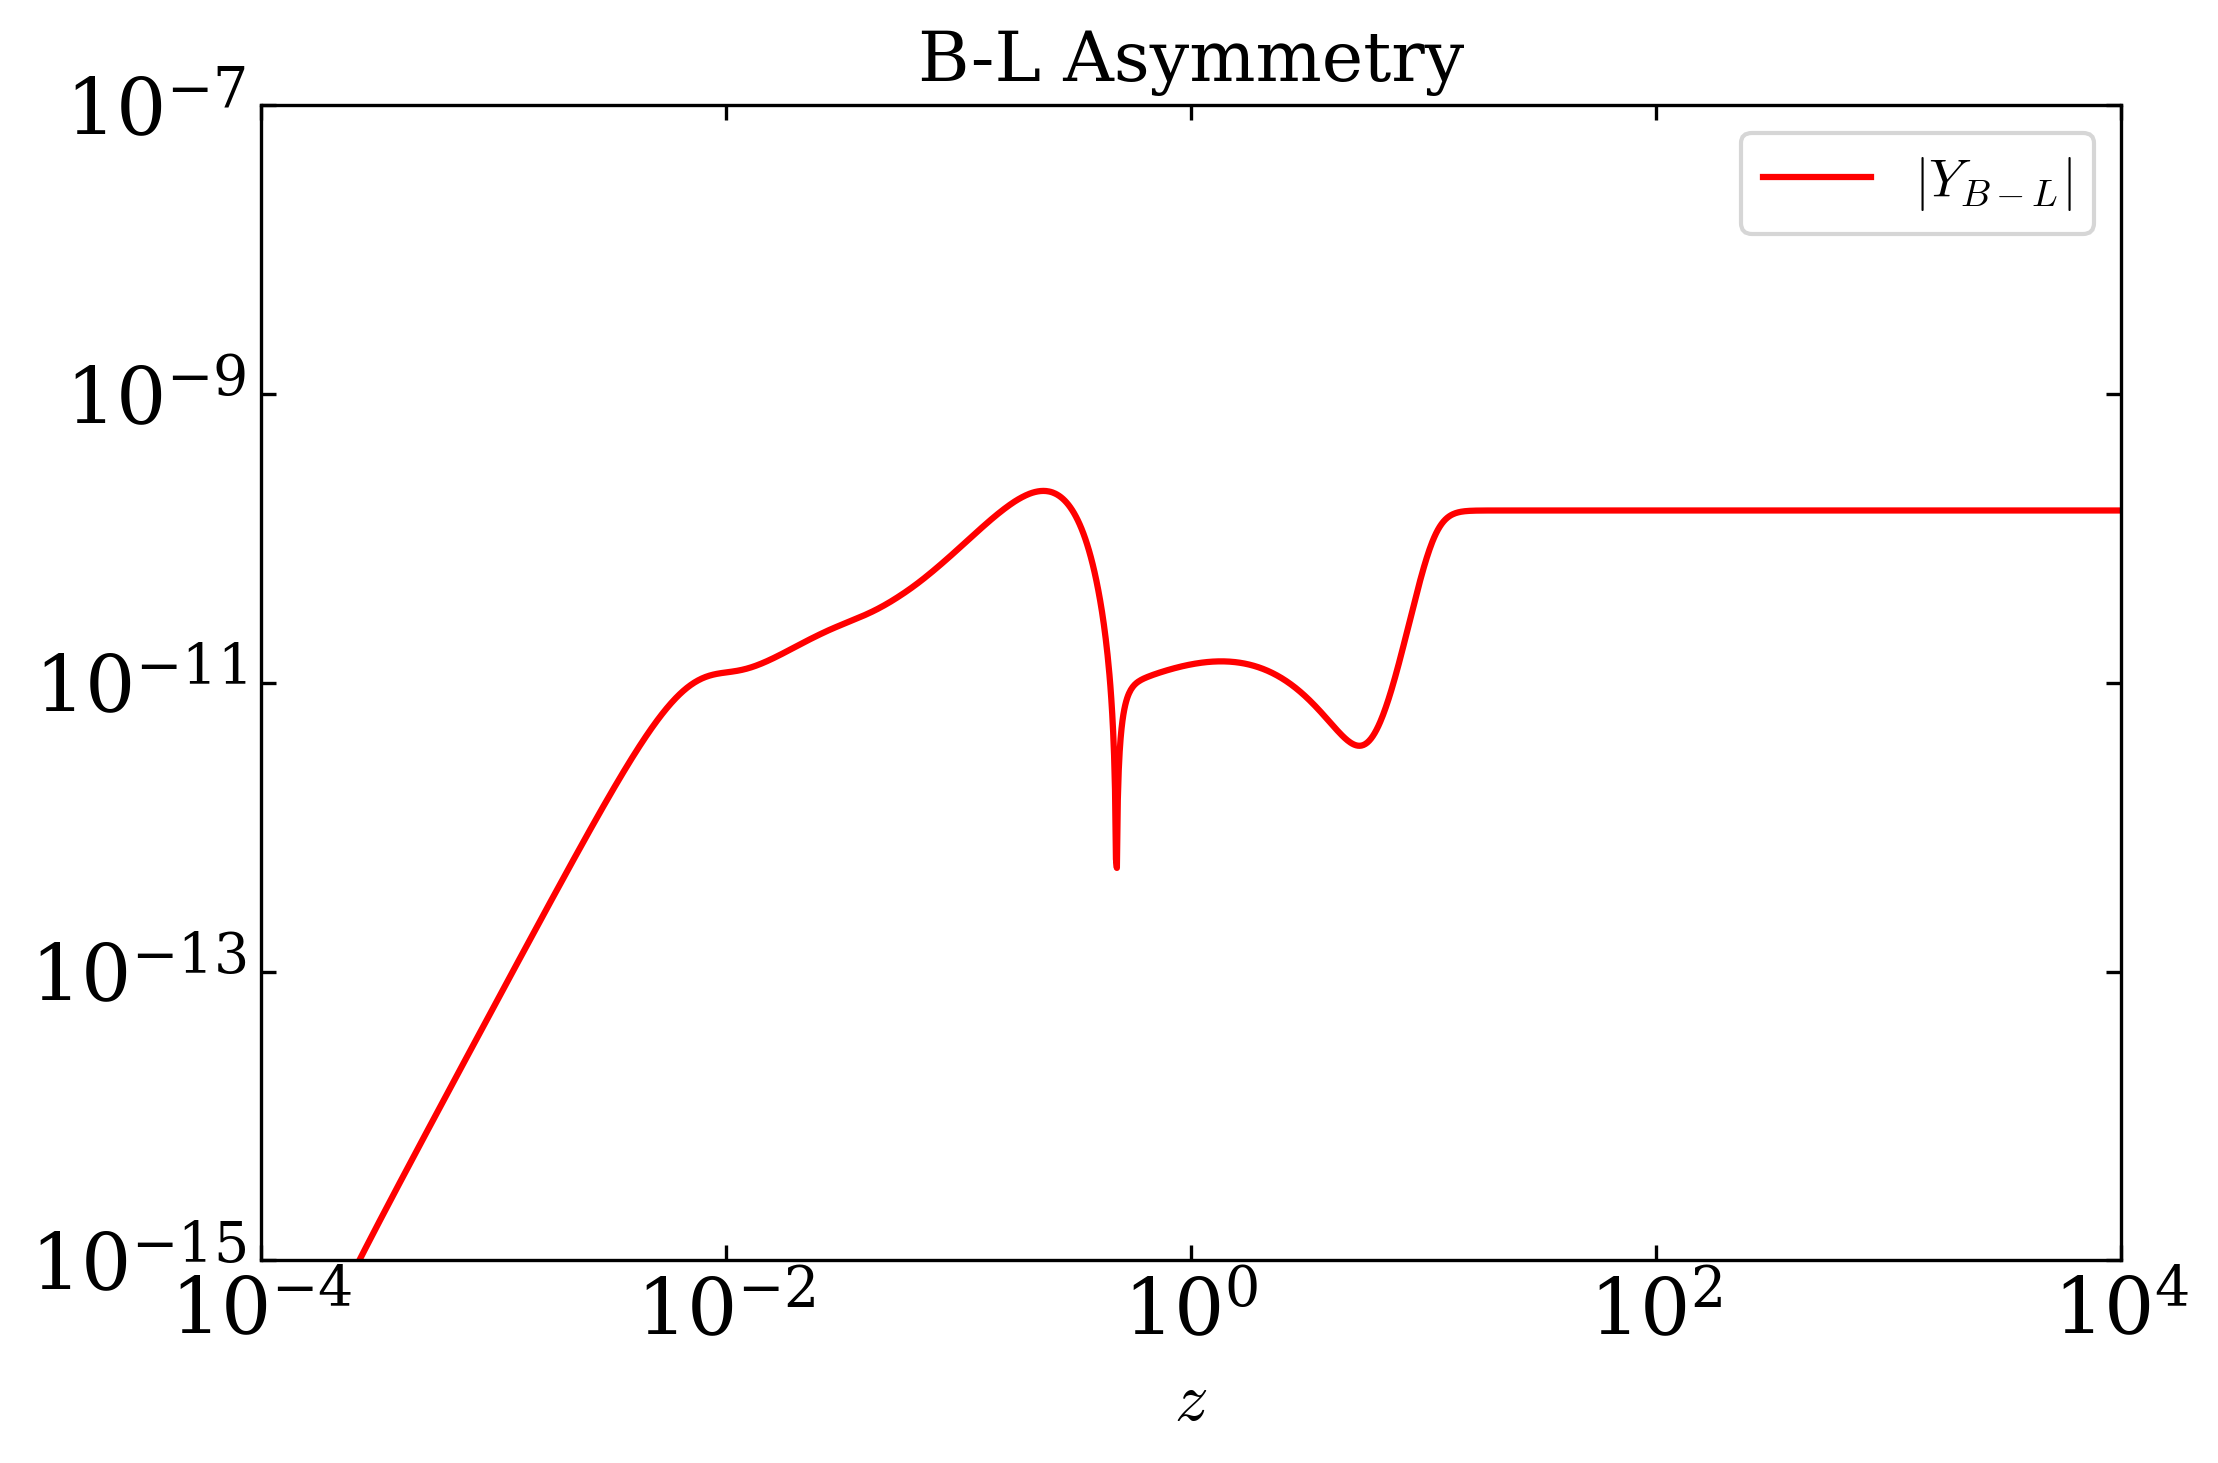
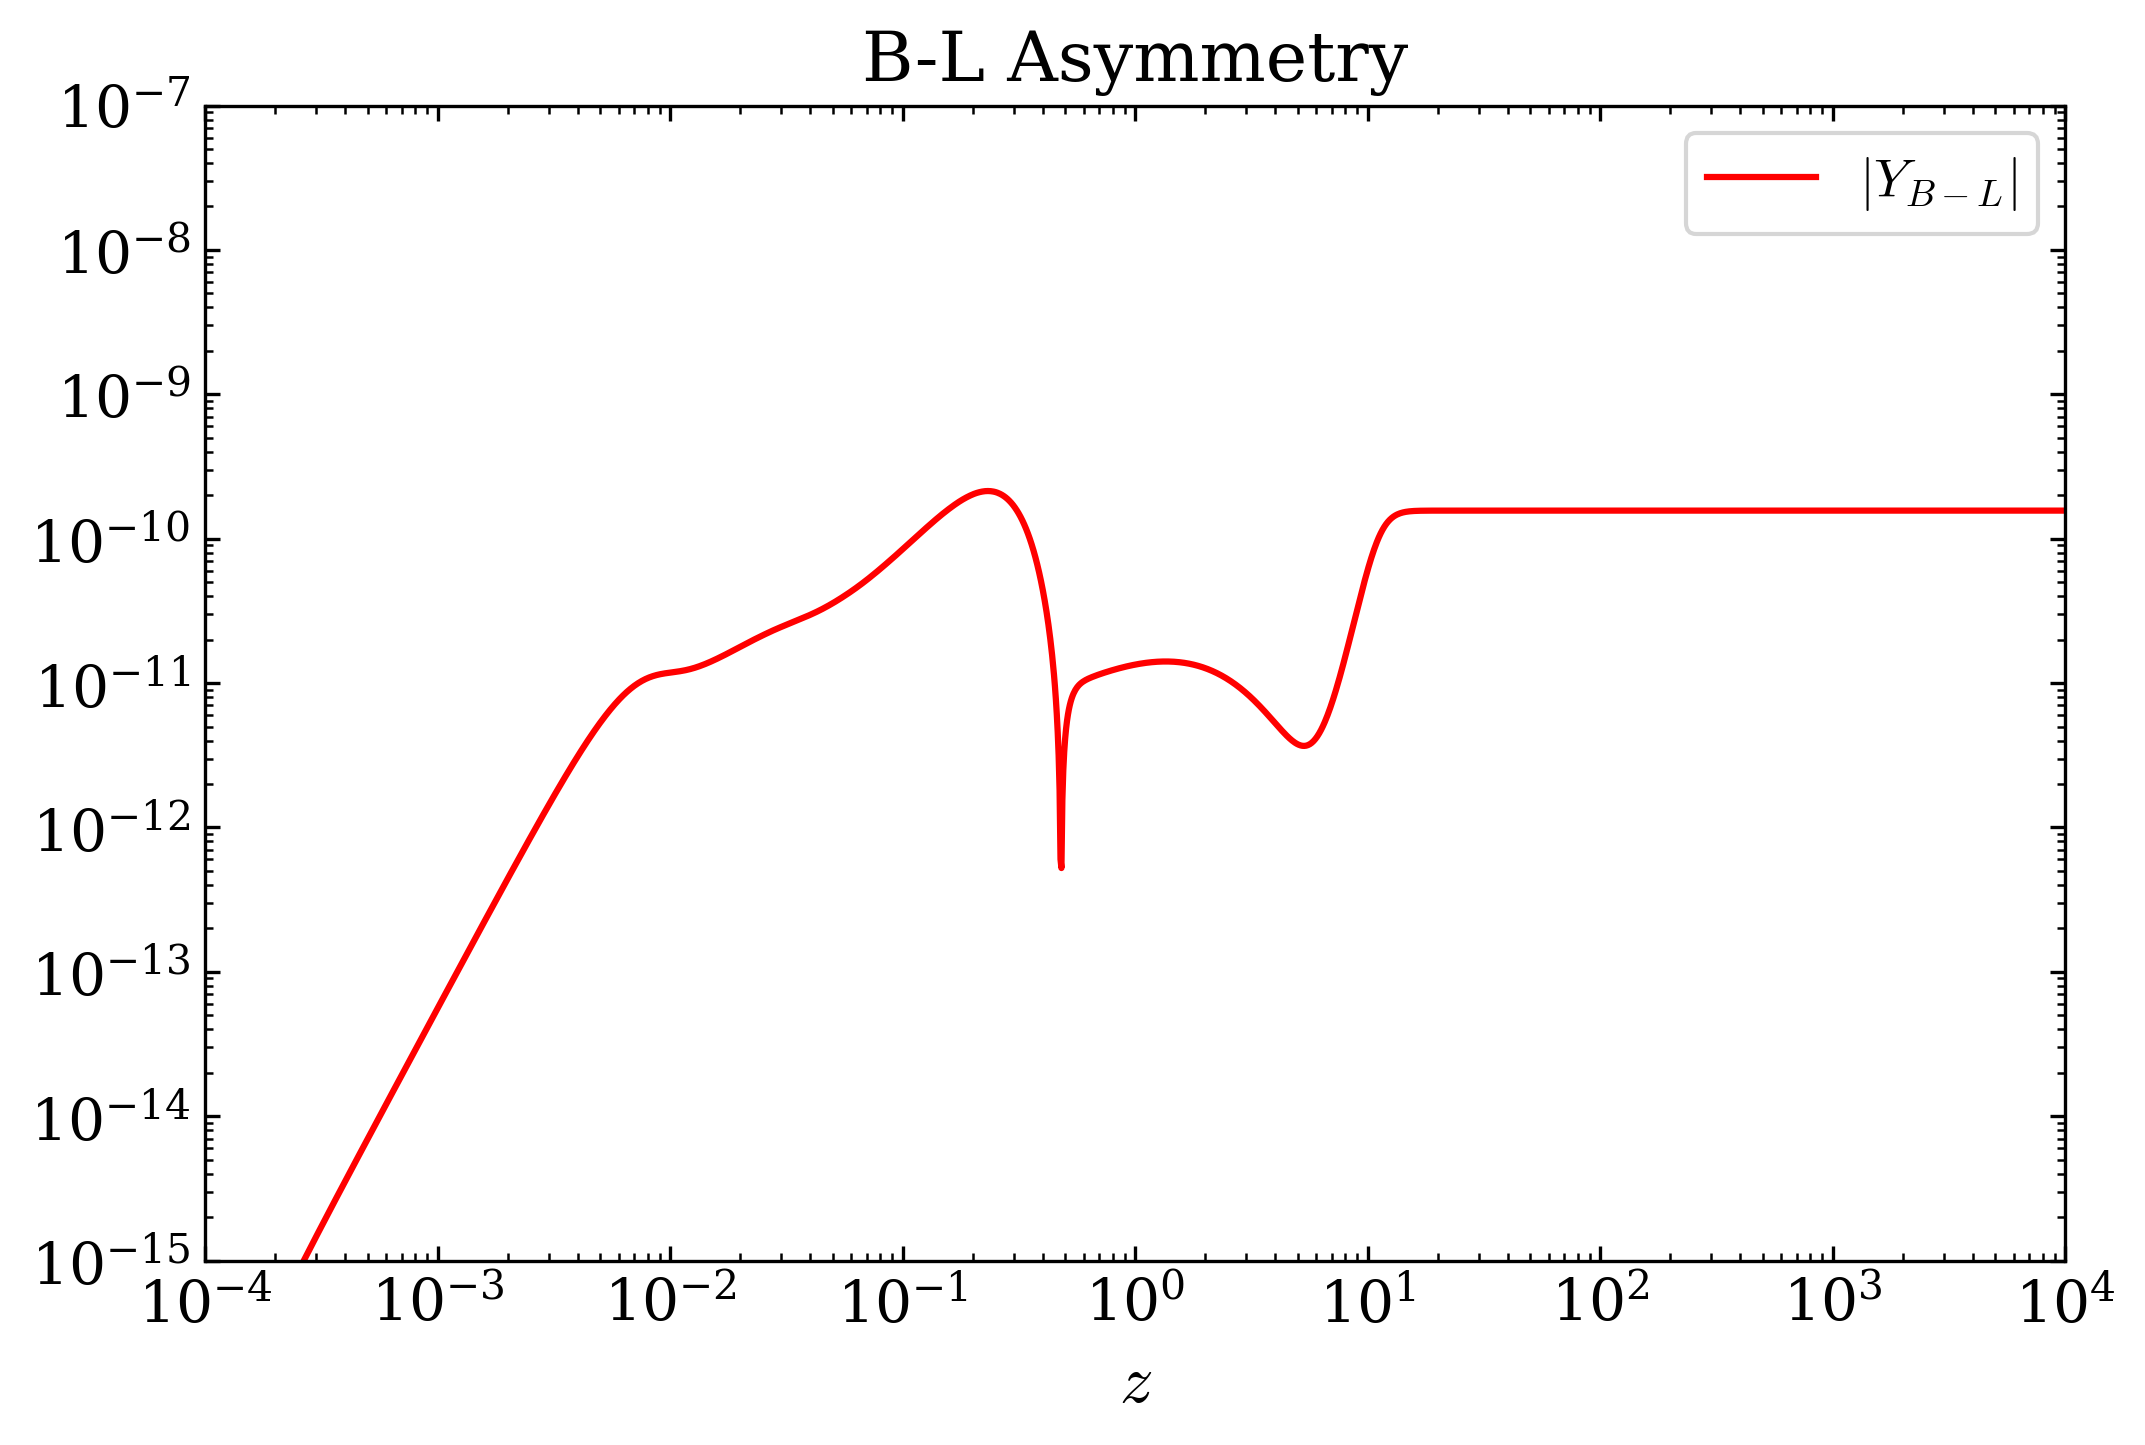
Optimize Boltzmann solver and Jacobian evaluation

diff --git a/src/BOLEH/Leptoncovariant/physicsL.py b/src/BOLEH/Leptoncovariant/physicsL.py
@@ -6,6 +6,7 @@ import numpy as np
 from scipy.special import kn
 from ..config import config
 from scipy.sparse import csc_matrix
+import time
 # GLOBAL CONSTANTS AND PARAMETERS
 
 gl, gH, gE = 2, 2, 1
@@ -287,7 +288,7 @@ def BE_RHSLE(y0_total, contributions=None, params_sm=None, background_funcs=None
     f_matrix = sp.Matrix(rhs_simbolic_pure)
     
     print("--- Analytical Jacobian Matrix ---")
-    
+    start_time = time.time()
     J_symbolic = f_matrix.jacobian(y_symbols)
     
     # --- Complexity of Jacobian entries ---
@@ -363,7 +364,7 @@ def BE_RHSLE(y0_total, contributions=None, params_sm=None, background_funcs=None
             jac_lambda(z, y),
             dtype=complex
         )
-    
+    print(f"Time of Jacobian calculation =  {time.time() - start_time:.4f} seconds.")
     
     print("End of Jacobian and Ode")
     

diff --git a/src/BOLEH/SMCovariant/physicsSM.py b/src/BOLEH/SMCovariant/physicsSM.py
@@ -5,7 +5,7 @@ from ..config import config
 import sympy as sp
 import numpy as np
 from scipy.special import kn
-
+import time
 
 # GLOBAL CONSTANTS AND PARAMETERS
 
@@ -337,6 +337,7 @@ def BE_RHS(y0_total, contributions=None, params_sm=None, background_funcs=None):
 
     f_matrix = sp.Matrix(rhs_simbolic_pure)
     print("--- Jacobian Analitic Matrix---")
+    start_time = time.time()
     J_symbolic = f_matrix.jacobian(y_symbols)
     
     # --- Complexity of Jacobian entries --
@@ -391,6 +392,6 @@ def BE_RHS(y0_total, contributions=None, params_sm=None, background_funcs=None):
             jac_lambda(z, y),
             dtype=complex
         )
-    
+    print(f"Time of Jacobian calcultaion = {time.time() - start_time:.4f} seconds.")
     print("End of Jacobian and Ode")
     return ode_analitic, jac_analitic, total_vars

diff --git a/src/BOLEH/Quarkcovariant/physicsQuark.py b/src/BOLEH/Quarkcovariant/physicsQuark.py
@@ -5,7 +5,7 @@ import sympy as sp
 import numpy as np
 from scipy.special import kn
 from ..config import config
-
+import time
 # GLOBAL CONSTANTS AND PARAMETERS
 
 gH, gQ, gU, gD =  2, 6, 3, 3
@@ -339,7 +339,7 @@ def BE_RHSQuark(y0_total, contributions=None, params_sm=None, background_funcs=N
     f_matrix = sp.Matrix(rhs_simbolic_pure)
     
     print("--- Analytical Jacobian Matrix ---")
-    
+    start_time = time.time()
     J_symbolic = f_matrix.jacobian(y_symbols)
 
     
@@ -421,7 +421,7 @@ def BE_RHSQuark(y0_total, contributions=None, params_sm=None, background_funcs=N
             dtype=complex
         )
     
-    
+    print(f"Time of Jacobian Calculation {time.time() - start_time:.4f} seconds.")
     print("End of Jacobian and Ode")
     
     return ode_analitic, jac_analitic, total_vars

diff --git a/src/BOLEH/Leptoncovariant/solverL.py b/src/BOLEH/Leptoncovariant/solverL.py
@@ -18,7 +18,7 @@ def BESolverLepto(z_span, y0, ode_func, jac_func, rtol, atol):
         rtol=rtol, atol=atol
     )
     z_sol = sol.t
-    print(f" Complete integration numerical {time.time() - start_time:.4f} seconds.")
+    print(f"Time for numerical integration = {time.time() - start_time:.4f} seconds.")
     def rebuild_matrix(v):
         return np.array([
             [v[0],           v[3] + 1j*v[4], v[5] + 1j*v[6]],

diff --git a/src/BOLEH/Quarkcovariant/solverQuark.py b/src/BOLEH/Quarkcovariant/solverQuark.py
@@ -17,7 +17,7 @@ def BESolverQuark(z_span, y0, ode_func, jac_func, rtol, atol):
         t_eval=z_eval, method="BDF",jac=jac_func, rtol=rtol, atol=atol
     )
     z_sol = sol.t
-    print(f" Complete integration numerica {time.time() - start_time:.4f} seconds.")
+    print(f"Time of numerical integration = {time.time() - start_time:.4f} seconds.")
 
     def rebuild_matrix(v):
         return np.array([

diff --git a/src/BOLEH/SMCovariant/solverSM.py b/src/BOLEH/SMCovariant/solverSM.py
@@ -24,7 +24,7 @@ def BESolver(z_span, y0, ode_func, jac_func, rtol, atol):
     )
     z_sol=sol.t
 
-    print(f" Complete integration numerica {time.time() - start_time:.4f} seconds.")
+    print(f"Time of numerical integration = {time.time() - start_time:.4f} seconds.")
 
     step = 9
     def rebuild_matrix(v):
